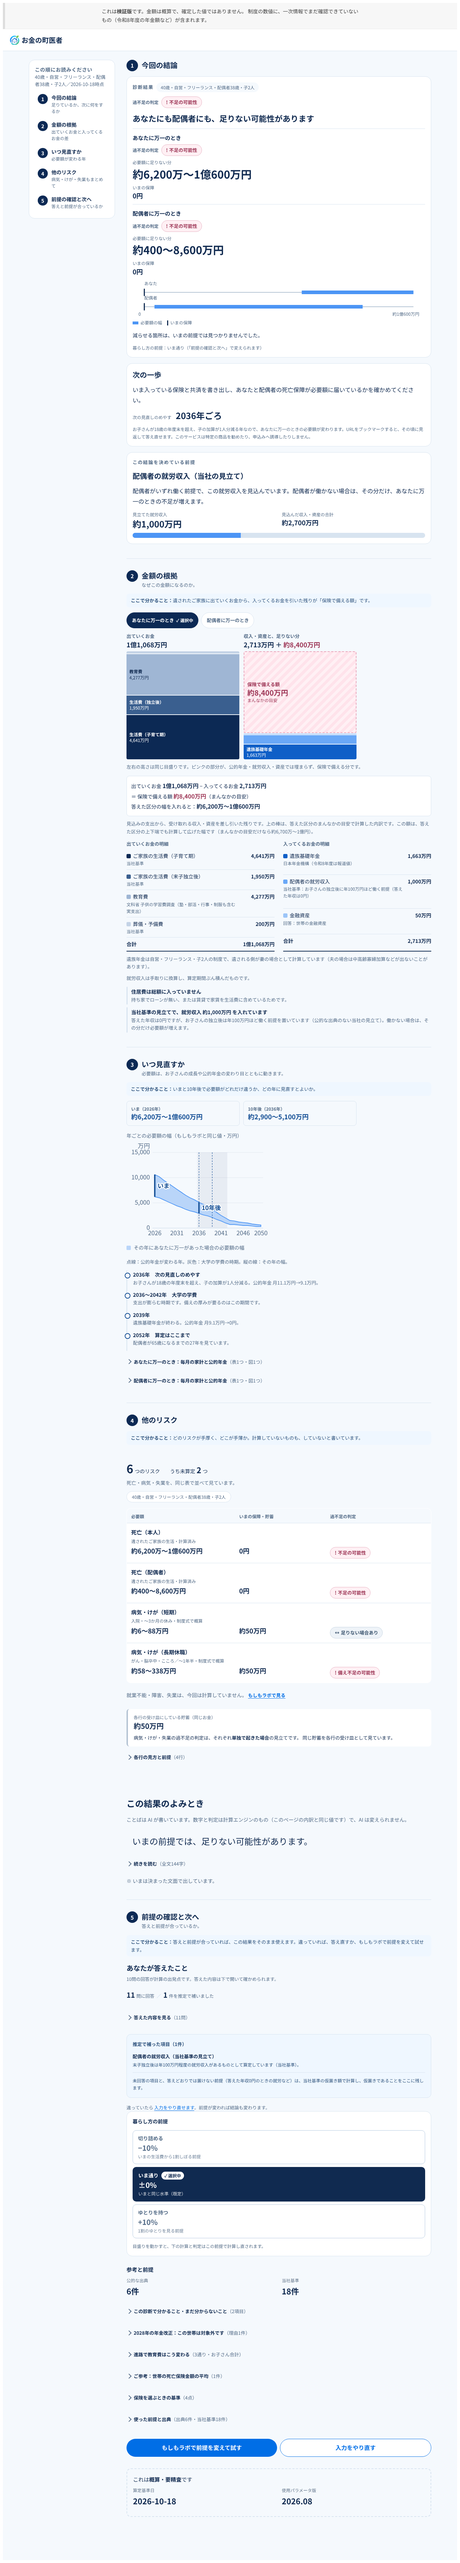
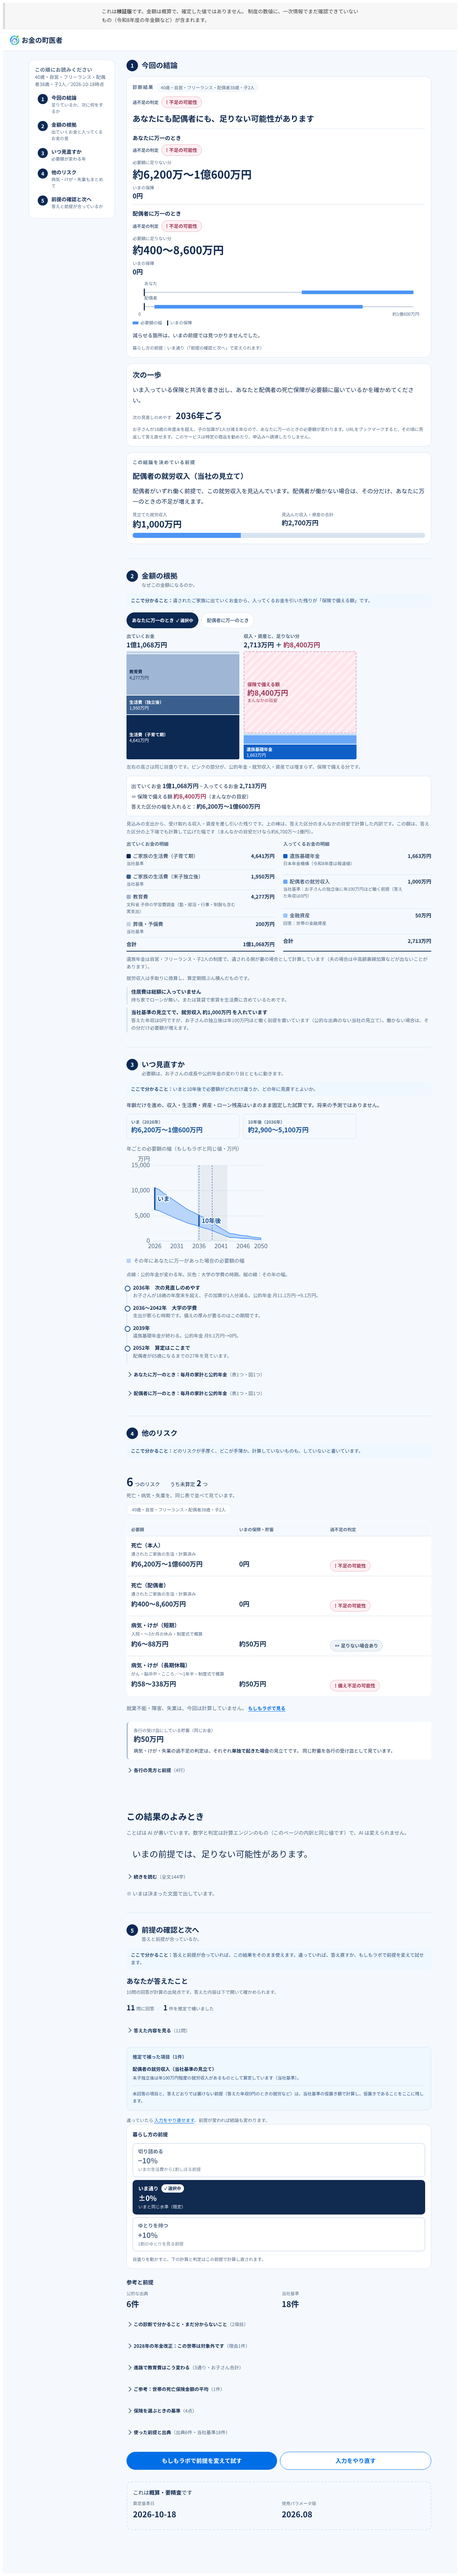
fix(result): いつ見直すかの冒頭に、固定している前提を1文で書く（UX 34回目）
Claude-Session: https://claude.ai/code/session_01Fzmq9nUFPsWJRPivmmEeQQ

diff --git a/app/result/NeedBand.tsx b/app/result/NeedBand.tsx
@@ -157,6 +157,13 @@ export function NeedBand({
 
   return (
     <>
+      {/*
+        「いま／10年後」が将来の予測に読まれないよう、固定している前提を先に言う（UX 34回目）。
+        `labDeath` は年齢だけを進め、収入・生活費・資産・ローン残高は回答のまま置いている
+      */}
+      <p className={r.lead}>
+        いまの制度・収入・生活費・資産・ローン残高を固定し、家族の年齢だけを進めた試算です。将来の予測ではありません。
+      </p>
       <div className={r.pair}>
         <div>
           <span className={r.pairYear}>いま（{now.year}年）</span>

diff --git a/app/result/report.module.css b/app/result/report.module.css
@@ -552,3 +552,10 @@
   font-size: 12px;
   font-weight: var(--font-weight-bold);
 }
+
+/* 図や数字の前に置く、前提の1文。本文と同じ大きさで読ませる */
+.lead {
+  font-size: 14px;
+  line-height: 1.7;
+  margin: 0 0 12px;
+}

diff --git a/tasks/current.md b/tasks/current.md
@@ -277,5 +277,6 @@
 - 2026-10-18（Mac mini）：545938f で request-qa は qa-pass。UX 33回目は修正依頼：直さないと誤る1件（03 の保障の線が将来まで続き契約が続くように見える、帯が予測に見える）、分かりにくい3件（02 の積み上げ棒で不足分が「入ってくるお金」に見える、本人／配偶者タブに選択中の印がない、タブの高さ 36px）。「働かない場合」が最初の2画面を 160〜185px 超えるのは許容と判断
 - UX 33回目の修正：03 は図の前に「いまの保障は、今の額のまま続くものとして横線で描いています」、図の下に「いまの保障額を一定として表示。満期・更新は反映していません」（保障の線を描くとき）。02 の右の列は「収入・資産と、足りない分」、合計も「2,713万円 ＋ 約8,400万円」と分けた。タブは選んでいる側に「✓ 選択中」、高さ 44px
 - 2026-10-18（Mac mini）：da522df で request-qa は qa-pass。UX 34回目は修正依頼（直さないと誤る1件）：03 の必要額の帯が、収入・生活費・資産・ローン残高を固定した試算であることが図の前にない
-- 次の1手：03 の図の直前に「現在の制度・収入・生活費・資産・ローン残高を固定し、家族の年齢だけを進めた試算です」を常に出す → UX 再レビュー
+- UX 34回目の修正：03 の冒頭（いま／10年後と図の前）に「いまの制度・収入・生活費・資産・ローン残高を固定し、家族の年齢だけを進めた試算です。将来の予測ではありません。」を常に出す
+- 次の1手：UX 再レビュー（coordinator 経由）を通してマージする
 
